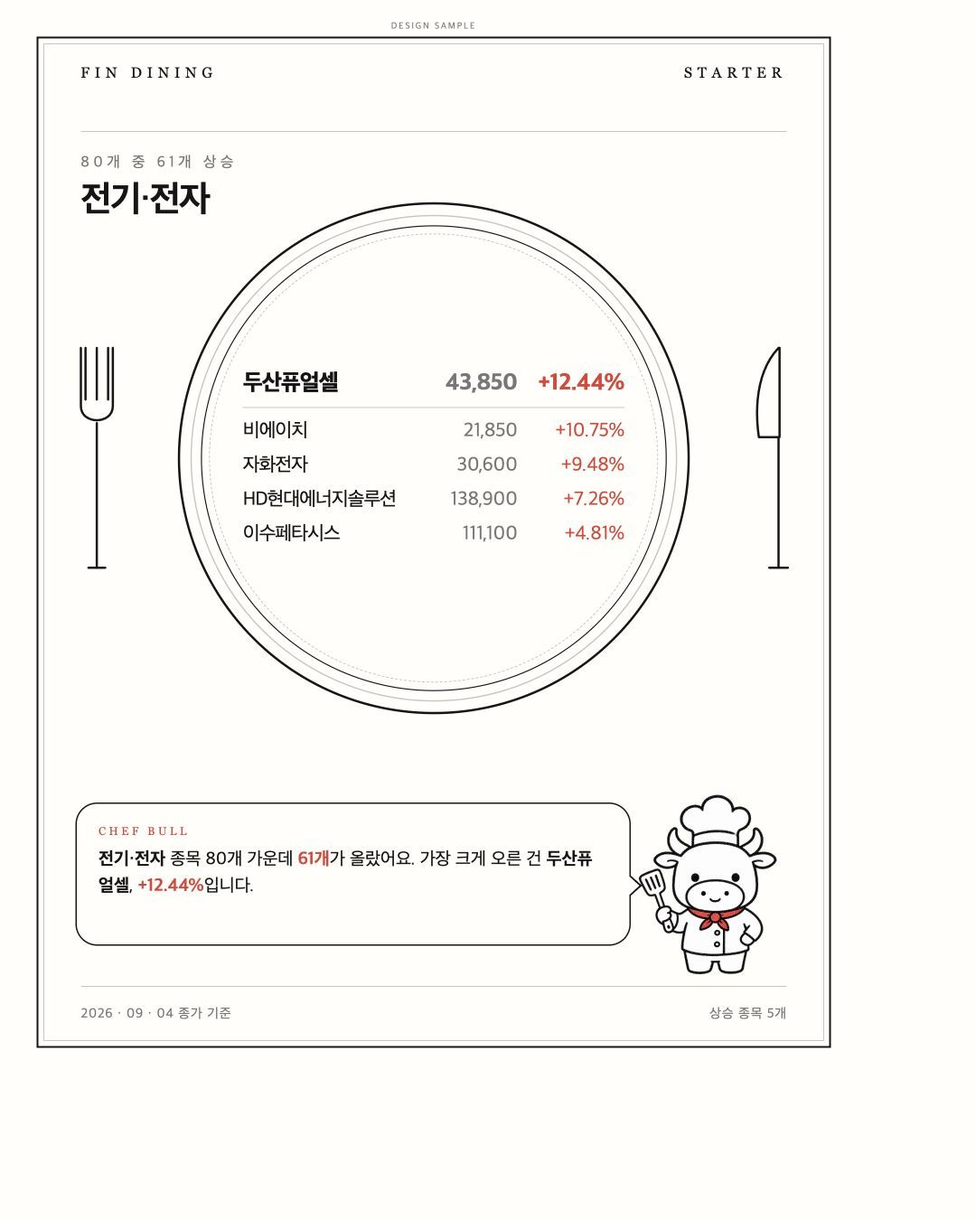
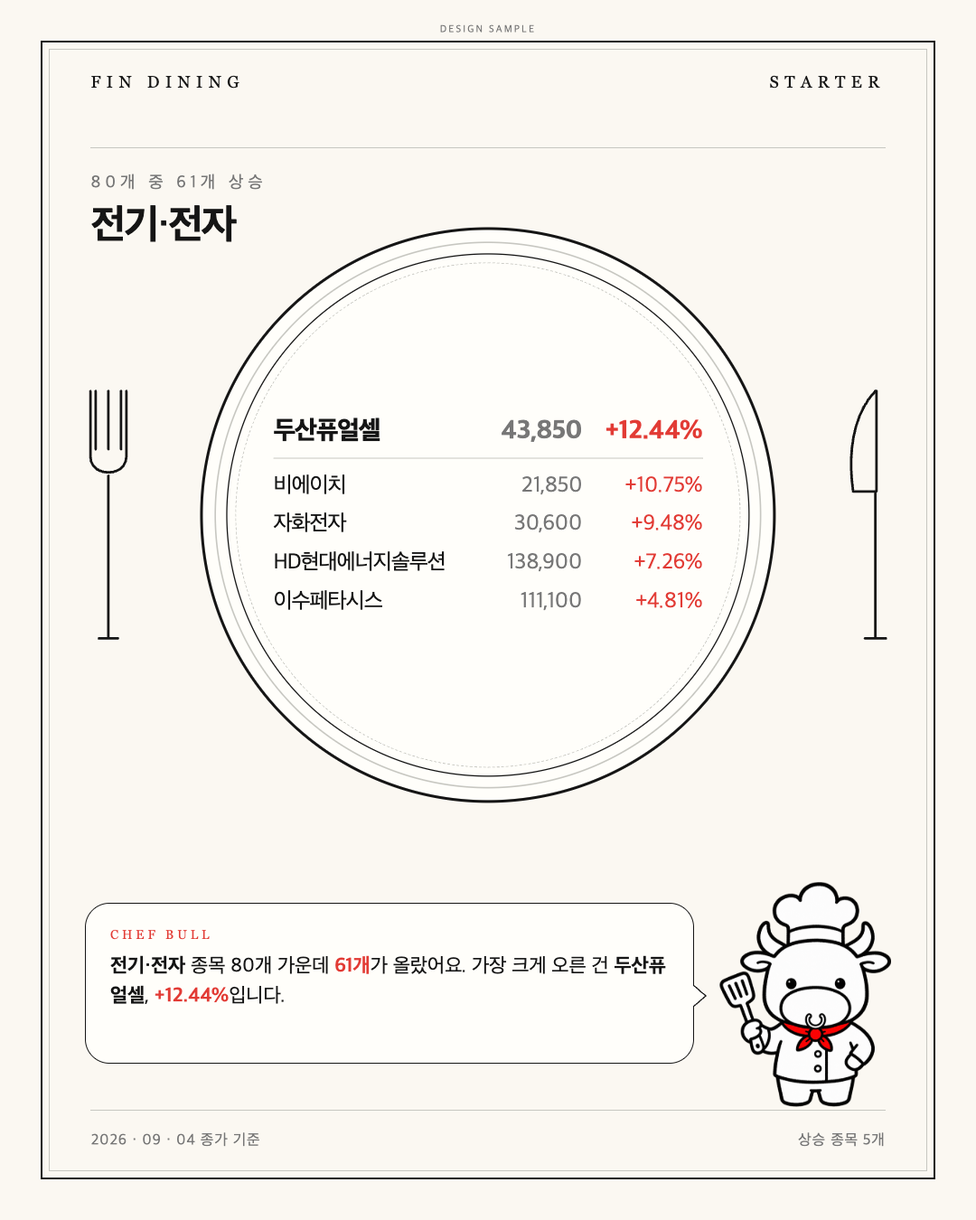
Update Bull and Bear design and September 7 posts

diff --git a/bull-bear-market-automation/template/share.html b/bull-bear-market-automation/template/share.html
@@ -8,6 +8,7 @@
     :root {
       color-scheme: light;
       --paper: #fffefa;
+      --card-bg: #fbf8f2; /* Approved warm ivory · 2026-09-07 */
       --page: #eeeeeb;
       --ink: #151515;
       --muted: #777777;
@@ -16,6 +17,11 @@
       --up: #e23b35;
       --down: #3569d4;
     }
+
+    :root[data-palette="ivory"] { --card-bg: #fbf8f2; }
+    :root[data-palette="blue"] { --card-bg: #f6f9fc; }
+    :root[data-palette="sage"] { --card-bg: #f7faf7; }
+    :root[data-palette="blush"] { --card-bg: #fcf7f6; }
 
     * { box-sizing: border-box; }
     html, body { margin: 0; min-height: 100%; }
@@ -73,7 +79,7 @@
       width: 100%;
       aspect-ratio: 4 / 5;
       overflow: hidden;
-      background: var(--paper);
+      background: var(--card-bg);
       color: var(--ink);
       box-shadow: 0 10px 28px rgb(0 0 0 / 10%);
     }
@@ -225,19 +231,48 @@
       height: 20.5cqw;
       z-index: 5;
     }
-    .chef {
-      position: absolute;
-      bottom: -1.6cqw;
-      width: 20.5cqw;
-      height: auto;
-      object-fit: contain;
+    /* Bounds exclude transparent padding; both chefs use the same visible height.
+       Speech-tail tip to visible silhouette: 2.6 - 1.45 = 1.15cqw. */
+    .chef-sprite {
+      --chef-height: 23cqw;
+      position: relative;
+      display: block;
+      flex: none;
+      height: var(--chef-height);
+      width: calc(var(--chef-height) * var(--aspect));
+      overflow: hidden;
       z-index: 3;
     }
-    .tone-up .chef { right: -1.2cqw; }
-    .tone-down .chef { left: -1.2cqw; }
-    .speech {
+    .chef-sprite.bull {
+      --aspect: 0.76565; /* visible bounds: 67,26–1021,1272 in 1200×1310 */
+      --image-width: 125.7862%; --image-left: -7.0231%; --image-top: -2.0867%;
+    }
+    .chef-sprite.bear {
+      --aspect: 0.68318; /* visible bounds: 111,6–980,1278 in 1218×1292 */
+      --image-width: 140.1611%; --image-left: -12.7733%; --image-top: -0.4717%;
+    }
+    .chef-sprite img,
+    .chef-sprite .chef-fill {
       position: absolute;
-      top: 1.2cqw;
+      width: var(--image-width);
+      max-width: none;
+      height: auto;
+      left: var(--image-left);
+      top: var(--image-top);
+    }
+    .chef-zone {
+      display: flex;
+      align-items: flex-end;
+      gap: 2.6cqw;
+    }
+    .chef-zone .chef-sprite { bottom: -1.6cqw; }
+    .tone-up .chef-zone { flex-direction: row-reverse; }
+    .speech {
+      position: relative;
+      flex: 1;
+      min-width: 0;
+      align-self: flex-start;
+      margin-top: 1.2cqw;
       min-height: 16.5cqw;
       padding: 2.2cqw 2.5cqw;
       border: .18cqw solid var(--ink);
@@ -246,8 +281,6 @@
       font-size: 2.05cqw;
       line-height: 1.52;
     }
-    .tone-up .speech { left: 0; width: 64cqw; }
-    .tone-down .speech { right: 0; width: 64cqw; }
     .speech::before,
     .speech::after {
       content: "";
@@ -349,18 +382,18 @@
       bottom: 13.7cqw;
       height: 21cqw;
     }
-    .cover-chefs img {
-      position: absolute;
-      bottom: -1.5cqw;
-      width: 19cqw;
+    .cover-chefs {
+      display: grid;
+      grid-template-columns: 18cqw minmax(0, 1fr) 18cqw;
+      align-items: start;
+      gap: 2cqw;
     }
-    .cover-chefs .bear { left: 0; }
-    .cover-chefs .bull { right: 0; }
+    .cover-chefs .chef-sprite { --chef-height: 22cqw; }
+    .cover-chefs .bear { justify-self: end; }
+    .cover-chefs .bull { justify-self: start; }
     .cover-note {
-      position: absolute;
-      left: 21cqw;
-      right: 21cqw;
-      top: 1.4cqw;
+      position: relative;
+      margin-top: 1.4cqw;
       min-height: 15.5cqw;
       padding: 2.4cqw;
       border: .18cqw solid var(--ink);
@@ -474,7 +507,7 @@
     const esc = (value) => String(value ?? "").replace(/[&<>"']/g, (ch) => ({ "&":"&amp;", "<":"&lt;", ">":"&gt;", '"':"&quot;", "'":"&#39;" }[ch]));
     const asset = (name) => "../characters/" + name;
     const chefAsset = (direction) => direction === "up"
-      ? asset("bull-chef-red-scarf-spatula.png")
+      ? asset("bull-chef-red-scarf-spatula.png?v=nose-ring-2")
       : asset("bear-chef-blue-scarf-whisk.png");
     const directionWord = (direction) => direction === "up" ? "상승" : "하락";
     const actionWord = (direction) => direction === "up" ? "올랐어요" : "내렸어요";
@@ -494,8 +527,31 @@
       return '<div class="card-foot"><span>' + esc(meta.date.replaceAll("-", " · ")) + ' 종가 기준</span><span>' + esc(right) + '</span></div>';
     }
 
+    // Opaque white underpaint follows the original bear drawing in source coordinates.
+    // Kept in the template so the original crayon artwork and transparent whisk gaps survive.
+    function bearWhiteFill() {
+      return '<svg class="chef-fill" viewBox="0 0 1218 1292" aria-hidden="true" focusable="false" xmlns="http://www.w3.org/2000/svg"><g fill="#fff">' +
+        '<path d="M446 374L438 265C365 251 342 209 361 157C381 97 457 66 516 132C515 67 557 18 612 18C680 14 730 59 723 132C774 72 850 95 868 153C889 208 855 249 791 266L783 373Z"/>' +
+        '<path d="M332 467C270 462 250 418 263 373C277 326 319 297 363 309C401 319 417 349 417 388Z"/>' +
+        '<path d="M813 385C820 335 851 306 891 308C949 311 977 363 966 411C959 443 936 463 892 468Z"/>' +
+        '<path d="M616 351C795 350 928 434 929 608C936 733 842 811 617 817C401 810 303 744 305 603C303 440 431 351 616 351Z"/>' +
+        '<path d="M411 789L339 845L337 909L367 965L393 902L371 1068C457 1143 745 1139 853 1067L856 994L950 920C907 865 864 821 811 791C717 826 503 830 411 789Z"/>' +
+        '<path d="M850 992L950 930C986 983 960 1027 913 1033C880 1038 860 1020 850 992Z"/>' +
+        '<path d="M397 1085C494 1134 724 1138 831 1085L811 1188C844 1226 818 1260 758 1266C701 1271 651 1260 643 1237L632 1176L593 1176L577 1240C563 1270 472 1277 426 1254C396 1240 395 1215 417 1187Z"/>' +
+        '<path d="M248 790L280 780L298 824L267 836Z"/>' +
+        '<path d="M283 823C326 816 346 842 344 876C342 905 330 914 307 920L319 948C270 957 244 931 242 890C239 856 252 832 283 823Z"/>' +
+        '<path d="M304 922L335 913L356 964C359 982 331 989 320 976Z"/>' +
+        '</g></svg>';
+    }
+
+    function chefSprite(direction) {
+      const kind = direction === "up" ? "bull" : "bear";
+      const label = direction === "up" ? "코뚜레를 한 황소 요리사" : "거품기를 든 곰 요리사";
+      return '<span class="chef-sprite ' + kind + '">' + (direction === "down" ? bearWhiteFill() : "") + '<img src="' + chefAsset(direction) + '" alt="' + label + '"></span>';
+    }
+
     function chefZone(direction, message) {
-      return '<div class="chef-zone"><img class="chef" src="' + chefAsset(direction) + '" alt="' + (direction === "up" ? "뒤집개를 든 황소 요리사" : "거품기를 든 곰 요리사") + '">' +
+      return '<div class="chef-zone">' + chefSprite(direction) +
         '<div class="speech"><div class="chef-label">' + chefName(direction) + '</div>' + message + '</div></div>';
     }
 
@@ -505,8 +561,8 @@
       return '<article class="post-card cover"><div class="sample-badge">' + esc(data.meta.status) + '</div><div class="card-inner">' +
         '<div class="cover-brand">FINSIGHT</div><h2>FIN DINING</h2><div class="cover-eyebrow">' + esc(data.cover.eyebrow) + '</div>' +
         '<div class="course-board">' + rows + '</div><div class="cover-chefs">' +
-        '<img class="bear" src="' + chefAsset("down") + '" alt="거품기를 든 곰 요리사"><div class="cover-note">' + esc(data.cover.note) + '</div>' +
-        '<img class="bull" src="' + chefAsset("up") + '" alt="뒤집개를 든 황소 요리사"></div>' +
+        chefSprite("down") + '<div class="cover-note">' + esc(data.cover.note) + '</div>' +
+        chefSprite("up") + '</div>' +
         foot(data.meta, data.meta.market) + '</div></article>';
     }
 
@@ -550,6 +606,8 @@
       document.getElementById("page-foot").textContent = data.disclaimer;
 
       const params = new URLSearchParams(location.search);
+      const palette = params.get("palette");
+      document.documentElement.dataset.palette = ["ivory", "blue", "sage", "blush"].includes(palette) ? palette : "ivory";
       const selected = Number(params.get("card"));
       if (selected >= 1 && selected <= cards.length) {
         document.body.classList.add("single");

diff --git a/bull-bear-market-automation/design-review/2026-09-07/palette-comparison.html b/bull-bear-market-automation/design-review/2026-09-07/palette-comparison.html
@@ -1,0 +1,3 @@
+<!doctype html><html lang="ko"><meta charset="utf-8"><title>FIN DINING · 배경색 4안</title><style>
+*{box-sizing:border-box}body{margin:0;padding:36px;background:#e9e9e7;color:#171717;font-family:"Apple SD Gothic Neo",sans-serif}h1{font-size:28px;margin:0 0 8px}p{font-size:15px;color:#626262;margin:0 0 28px}.grid{display:grid;grid-template-columns:repeat(4,minmax(0,1fr));gap:24px}h2{font-size:20px;margin:0 0 8px}.meta{height:48px;font-size:13px;color:#626262;line-height:1.6}.swatch{display:inline-block;width:14px;height:14px;border:1px solid #bbb;vertical-align:middle;margin-right:6px}img{display:block;width:100%;margin-bottom:14px;box-shadow:0 4px 15px #0001}a{color:inherit} .label{font-size:12px;margin:8px 0;color:#626262}.note{margin-top:22px;font-size:13px}</style>
+<h1>FIN DINING · 더 연한 배경색 4가지</h1><p>기존 색에 흰색을 약 50% 더한 밝기 · 위: 황소 / 아래: 흰색으로 채운 곰 · 디자인 검토용 샘플</p><div class="grid"><section><h2>01 · 웜 아이보리</h2><div class="meta"><span class="swatch" style="background:#FBF8F2"></span>#FBF8F2<br>따뜻하고 차분한 상차림</div><div class="label">황소 · 상승 카드</div><a href="ivory-2.png"><img src="ivory-2.png"></a><div class="label">곰 · 하락 카드</div><a href="ivory-4.png"><img src="ivory-4.png"></a><a href="ivory-1.png">커버 시안 보기 ↗</a></section><section><h2>02 · 파우더 블루</h2><div class="meta"><span class="swatch" style="background:#F6F9FC"></span>#F6F9FC<br>맑고 깔끔한 인상</div><div class="label">황소 · 상승 카드</div><a href="blue-2.png"><img src="blue-2.png"></a><div class="label">곰 · 하락 카드</div><a href="blue-4.png"><img src="blue-4.png"></a><a href="blue-1.png">커버 시안 보기 ↗</a></section><section><h2>03 · 연한 세이지</h2><div class="meta"><span class="swatch" style="background:#F7FAF7"></span>#F7FAF7<br>편안하고 부드러운 인상</div><div class="label">황소 · 상승 카드</div><a href="sage-2.png"><img src="sage-2.png"></a><div class="label">곰 · 하락 카드</div><a href="sage-4.png"><img src="sage-4.png"></a><a href="sage-1.png">커버 시안 보기 ↗</a></section><section><h2>04 · 소프트 블러시</h2><div class="meta"><span class="swatch" style="background:#FCF7F6"></span>#FCF7F6<br>온기 있는 부드러운 인상</div><div class="label">황소 · 상승 카드</div><a href="blush-2.png"><img src="blush-2.png"></a><div class="label">곰 · 하락 카드</div><a href="blush-4.png"><img src="blush-4.png"></a><a href="blush-1.png">커버 시안 보기 ↗</a></section></div><div class="note">접시와 말풍선은 동일한 밝은 종이색을 유지했습니다. 배경색은 등락 의미가 없는 장식색이며, 상승·하락 표시는 기존 빨강·파랑입니다.</div></html>

diff --git a/bull-bear-market-automation/design-review/2026-09-07/previous-colors/palette-comparison.html b/bull-bear-market-automation/design-review/2026-09-07/previous-colors/palette-comparison.html
@@ -1,0 +1,3 @@
+<!doctype html><html lang="ko"><meta charset="utf-8"><title>FIN DINING · 배경색 4안</title><style>
+*{box-sizing:border-box}body{margin:0;padding:36px;background:#e9e9e7;color:#171717;font-family:"Apple SD Gothic Neo",sans-serif}h1{font-size:28px;margin:0 0 8px}p{font-size:15px;color:#626262;margin:0 0 28px}.grid{display:grid;grid-template-columns:repeat(4,minmax(0,1fr));gap:24px}h2{font-size:20px;margin:0 0 8px}.meta{height:48px;font-size:13px;color:#626262;line-height:1.6}.swatch{display:inline-block;width:14px;height:14px;border:1px solid #bbb;vertical-align:middle;margin-right:6px}img{display:block;width:100%;margin-bottom:14px;box-shadow:0 4px 15px #0001}a{color:inherit} .label{font-size:12px;margin:8px 0;color:#626262}.note{margin-top:22px;font-size:13px}</style>
+<h1>FIN DINING · 연한 배경색 4가지</h1><p>수정한 황소와 동일한 말풍선 간격 적용 · 위: 황소 / 아래: 곰 · 디자인 검토용 샘플 데이터</p><div class="grid"><section><h2>01 · 웜 아이보리</h2><div class="meta"><span class="swatch" style="background:#F7F1E5"></span>#F7F1E5<br>따뜻하고 차분한 상차림</div><div class="label">황소 · 상승 카드</div><a href="ivory-2.png"><img src="ivory-2.png"></a><div class="label">곰 · 하락 카드</div><a href="ivory-4.png"><img src="ivory-4.png"></a><a href="ivory-1.png">커버 시안 보기 ↗</a></section><section><h2>02 · 파우더 블루</h2><div class="meta"><span class="swatch" style="background:#EDF3F8"></span>#EDF3F8<br>맑고 깔끔한 인상</div><div class="label">황소 · 상승 카드</div><a href="blue-2.png"><img src="blue-2.png"></a><div class="label">곰 · 하락 카드</div><a href="blue-4.png"><img src="blue-4.png"></a><a href="blue-1.png">커버 시안 보기 ↗</a></section><section><h2>03 · 연한 세이지</h2><div class="meta"><span class="swatch" style="background:#EFF4EE"></span>#EFF4EE<br>편안하고 부드러운 인상</div><div class="label">황소 · 상승 카드</div><a href="sage-2.png"><img src="sage-2.png"></a><div class="label">곰 · 하락 카드</div><a href="sage-4.png"><img src="sage-4.png"></a><a href="sage-1.png">커버 시안 보기 ↗</a></section><section><h2>04 · 소프트 블러시</h2><div class="meta"><span class="swatch" style="background:#F8EFED"></span>#F8EFED<br>온기 있는 부드러운 인상</div><div class="label">황소 · 상승 카드</div><a href="blush-2.png"><img src="blush-2.png"></a><div class="label">곰 · 하락 카드</div><a href="blush-4.png"><img src="blush-4.png"></a><a href="blush-1.png">커버 시안 보기 ↗</a></section></div><div class="note">접시와 말풍선은 동일한 밝은 종이색을 유지했습니다. 배경색은 등락 의미가 없는 장식색이며, 상승·하락 표시는 기존 빨강·파랑입니다.</div></html>

diff --git a/bull-bear-market-automation/automation-prompt.md b/bull-bear-market-automation/automation-prompt.md
@@ -12,7 +12,7 @@
 
 ## 1. 산출물
 
-당일 기준 7장 인스타그램 카드와 공유용 갤러리를 만든다. 전체 정보 구조는 루트의 `templates/share.html`과 동일하게 유지한다.
+당일 기준 7장 인스타그램 카드와 게시글·릴스·스토리 원고를 만든다. 갤러리는 제작·검수 과정에서만 사용한다. 전체 정보 구조는 루트의 `templates/share.html`과 동일하게 유지한다.
 
 1. 커버 — 다섯 코스의 업종명·등락률과 Bull & Bear 캐릭터
 2. AMUSE BOUCHE — 업종과 대표 종목
@@ -24,7 +24,7 @@
 
 2~6번 카드는 상단 코스명, 업종 내 상승·하락 종목 수, 업종명, 중앙 접시, 접시 안 종목명·현재가·등락률, 캐릭터 말풍선, 기준일의 순서를 고정한다.
 
-모든 작업물은 이 폴더 아래 `output/YYYY-MM-DD/`에 저장한다. 최종 결과에는 카드 PNG 7장, `share.html`, `content.json`, `sources.md`, `caption.md`를 포함한다.
+모든 작업물은 이 폴더 아래 `output/YYYY-MM-DD/`에서 제작한다. 최종 검수를 통과하면 게시물 PNG 7장과 `caption.md`, `reels-script.md`, `story-copy.md`만 남긴다. `share.html`, `content.json`, `sources.md`, 조사 자료, 검수 기록, 전체 미리보기, 이전 버전 등 중간 산출물은 삭제한다. ZIP 등 압축파일은 만들지 않는다. 이 정리는 당일 결과 폴더에만 적용하며 공용 템플릿·캐릭터·자동화 소스는 보존한다.
 
 ## 2. 데이터와 팩트체크
 
@@ -34,7 +34,7 @@
 4. 종목 선정 이유는 공식 공시·IR·정부 발표·거래소 자료와 신뢰도 높은 보도자료로 교차 확인한다.
 5. 확인되지 않은 원인을 단정하지 않는다. 추론이면 `가능성`, `시장 해석`처럼 표시한다.
 6. 휴장일에는 임의 데이터를 만들지 말고 가장 최근 거래일을 기준일로 명시한다.
-7. 모든 URL, 문서명, 게시 시각, 데이터 기준 시각을 `sources.md`에 기록한다.
+7. 모든 URL, 문서명, 게시 시각, 데이터 기준 시각을 작업용 `sources.md`에 기록한다. 검수가 끝나면 필요한 출처 링크와 기준 시각을 원고에 포함하고 작업용 출처 파일은 삭제한다.
 
 ## 3. 콘텐츠 원칙
 
@@ -46,7 +46,8 @@
 
 ## 4. 색상과 캐릭터 규칙
 
-- 기본은 흰색 배경, 검은색 텍스트·테두리, 회색 보조선이다.
+- 확정 배경은 웜 아이보리 `#FBF8F2`다. 접시·말풍선은 밝은 종이색 `#FFFEFA`, 텍스트·테두리는 검은색, 보조선은 회색이다.
+- 곰의 얼굴·모자·의상·손발은 불투명 흰색으로 채운다. 황소는 콧구멍 없는 U자형 코뚜레 버전을 사용하며, 곰·황소와 말풍선 간격은 템플릿의 공통 기준을 유지한다.
 - 상승을 의미하는 숫자·막대·작은 상태점에만 빨강 `#E23B35`를 사용한다.
 - 하락을 의미하는 숫자·막대·작은 상태점에만 파랑 `#3569D4`를 사용한다.
 - 중립 정보는 검정 또는 회색이며 임의의 제3 포인트 색상을 추가하지 않는다.

diff --git a/bull-bear-market-automation/output/2026-09-07/caption.md b/bull-bear-market-automation/output/2026-09-07/caption.md
@@ -1,0 +1,37 @@
+반도체·전력은 달리고, 식품·화장품은 쉬어간 하루.
+9월 7일 FIN DINING, 오늘의 Bull & Bear 코스입니다.
+
+코스피는 6,995.39(+4.61%)로 마감했습니다. 오늘은 강세 업종 세 곳과 약세 업종 두 곳을 함께 담았습니다.
+
+🐂 상승 코스
+
+AMUSE BOUCHE · 기계 +5.75%
+삼미금속 +22.16% / 두산에너빌리티 +10.98% / TPC로보틱스 +10.34%
+두산에너빌리티 거래량은 전일 4.21배. AI 전력·발전 인프라 기대가 확산됐다는 증권사 해석이 나왔습니다. 개별 종목 모두의 상승 원인을 같은 재료로 단정하지 않았습니다.
+
+STARTER · 전기장비 +6.61%
+가온전선 +10.61% / 효성중공업 +8.53% / LS ELECTRIC +5.99%
+LS ELECTRIC의 KT클라우드 AI 데이터센터 협력 MOU는 9월 3일 공식 발표된 사실입니다. 오늘 전력기기 강세는 관련 투자 확대 기대와 연결한 시장 해석입니다.
+
+MAIN · 반도체·장비 +6.63%
+SK하이닉스 +8.26% / SK스퀘어 +8.07% / 삼성전자 +5.68%
+세 종목의 거래량은 각각 전일 1.23배·1.15배·1.30배. 신한투자증권은 AI 설비투자 기대 회복을 반도체 강세 배경으로 해석했습니다.
+
+🐻 하락 코스
+
+SIGNATURE · 화장품 −1.64%
+에이피알 −2.54% / 달바글로벌 −2.05% / 한국콜마 −1.03%
+에이피알은 20일 평균 아래, 한국콜마는 평균 위에서 조정받았습니다. 달바글로벌은 직전 20거래일 최저 종가를 밑돌았습니다. 에이피알의 해외 매출 비중은 2분기 IR 기준 92%로, 원화 강세에 따른 환산 부담은 점검할 가능성이지 오늘 하락의 확정 원인은 아닙니다.
+
+DESSERT · 식품 −2.12%
+삼양식품 −6.14% / 농심 −3.49% / 오리온 −2.61%
+삼양식품은 거래량이 전일 2.95배로 늘며 20일 평균 아래로 내려갔습니다. 환율 하락에 따른 수출 매출 환산 부담이 보도됐습니다. 농심은 20일 평균 아래, 오리온은 직전 20거래일 최저 종가 아래입니다. 같은 식품주라도 환율 영향은 원가·해외 생산 비중에 따라 다릅니다.
+
+다음 거래일 체크
+미국 현지 9월 7일은 노동절 휴장입니다. 9월 8일 국내장에서는 반도체·전력 강세의 확산 여부, 원·달러 환율과 하락 업종의 저점 회복을 확인하겠습니다.
+
+기준: 2026.09.07 KRX 정규장 종가. 업종 등락·종목 수는 Npay 국내 업종 분류입니다. 각 업종의 같은 방향 보통주 중 거래대금 상위 3개를 선정하고, 카드에서는 등락률 절대값 순으로 정렬했습니다. 20일 평균·저점은 단기 점검 지표입니다.
+
+정보 제공 목적이며 특정 종목의 매수·매도를 권유하지 않습니다.
+
+#FINDINING #Finsight #오늘의증시 #반도체 #전력기기 #식품 #화장품

diff --git a/bull-bear-market-automation/README.md b/bull-bear-market-automation/README.md
@@ -13,7 +13,11 @@
 
 ## 디자인 원칙
 
-- 흰 배경, 검은 글자와 테두리, 회색 보조선이 기본이다.
+- 확정된 웜 아이보리 배경 `#FBF8F2`, 밝은 종이색 접시·말풍선, 검은 글자와 테두리, 회색 보조선이 기본이다.
+- 기본 출력은 웜 아이보리다. `?palette=ivory|blue|sage|blush`는 보관된 비교 시안을 확인할 때만 사용한다. 배경색은 등락 의미를 갖지 않는다.
+- 곰은 템플릿의 흰색 채움 레이어로 얼굴·모자·귀·의상·손발을 불투명하게 표시한다. 캐릭터 바깥과 거품기 철사 사이는 배경이 비친다.
+- 황소는 콧구멍 없는 U자형 코뚜레 버전을 사용한다. 캐릭터의 투명 여백을 제외한 외곽 기준으로 말풍선 간격을 맞춘다.
+- 코스·메뉴: 말풍선 몸체와 캐릭터 외곽 2.6cqw(꼬리 끝 기준 1.15cqw). 커버: 곰과 황소 모두 말풍선 몸체에서 2cqw.
 - 상승의 숫자·막대·상태점만 빨강 `#E23B35`다.
 - 하락의 숫자·막대·상태점만 파랑 `#3569D4`다.
 - 황소의 빨간 스카프와 곰의 파란 스카프가 각 방향의 캐릭터 앵커다.
@@ -38,3 +42,15 @@ python3 -m http.server 8765
 ## 자동 생성 요청 예시
 
 이 폴더를 작업 위치로 두고 `오늘 Bull & Bear 만들어줘`라고 요청한다. 자세한 규칙은 `automation-prompt.md`를 따른다.
+
+## 배경색 비교 시안
+
+`design-review/2026-09-07/palette-comparison.html`에서 황소·곰 카드 4안을 비교하고 각 커버 시안을 열 수 있다.
+
+배경색은 흰색을 약 50% 혼합한 더 연한 2차 시안으로 갱신했다: 아이보리 `#FBF8F2`, 블루 `#F6F9FC`, 세이지 `#F7FAF7`, 블러시 `#FCF7F6`. 기존 시안은 `design-review/2026-09-07/previous-colors/`에 보관한다.
+
+2026-09-07 사용자 확정: 더 연한 2차 시안의 **웜 아이보리 `#FBF8F2`**로 진행한다. 템플릿 기본값과 `example/`의 7장 미리보기에 반영되어 있다.
+
+## 최종 결과 정리
+
+검수 완료 후 당일 `output/YYYY-MM-DD/`에는 카드 PNG 7장과 `caption.md`, `reels-script.md`, `story-copy.md`만 남긴다. ZIP은 만들지 않으며 미리보기·HTML·데이터·조사 자료·검수 기록·이전 버전은 삭제한다. 필요한 출처는 원고에 포함한다. 공용 템플릿과 캐릭터는 보존한다.

diff --git a/AGENTS.md b/AGENTS.md
@@ -6,8 +6,10 @@
 
 1. `fin-dining-instagram-automation-prompt-final.md`를 처음부터 끝까지 읽는다.
 2. `templates/templates-manifest.json`과 당일 `layout.json`을 읽어 브랜드 토큰을 불러온다.
-3. 해당 최종 프롬프트에 따라 최신 정보 조사, 팩트체크, 정보량에 맞는 실제 카드 PNG 5~7장, 게시글, 릴스, 스토리, 출처, ZIP을 생성한다.
+3. 해당 최종 프롬프트에 따라 최신 정보 조사, 팩트체크, 정보량에 맞는 실제 카드 PNG 5~7장, 게시글, 릴스, 스토리 원고를 생성하고 출처를 확인한다.
 4. 전체 카드를 생성형 AI로 다시 그리지 않는다. `templates/render_adaptive_course.py`를 사용해 승인된 컴포지션 패밀리 안에서 레이아웃을 선택하고 텍스트·데이터·도형을 코드로 합성한다. `templates/render_daily_course.py`는 v3 재현용으로만 사용한다. 주도 섹터 코스(FinSight 업종 랭킹 기반)는 `templates/render_sector_course.py`를 쓴다 — 밝은 파인다이닝 상차림이라 v4.1과 시각 체계를 공유하지 않는다.
 5. PASS 1 사실·원고, PASS 2 템플릿·기술, PASS 3 시각·폰트 검수를 모두 통과할 때까지 완료로 보고하지 않는다.
+
+최종 검수를 통과한 뒤 당일 결과 폴더에는 게시물 사진과 원고만 남긴다. 필요한 출처는 원고에 포함하며, 조사 자료·HTML·JSON·검수 기록·미리보기·이전 버전 등 중간 산출물은 삭제한다. ZIP 등 압축파일은 만들지 않는다. 이 최종 정리 규칙은 개별 제작 프롬프트의 산출물 목록보다 우선한다. 공용 템플릿·캐릭터·자동화 소스는 보존한다.
 
 주 6코스는 월요일부터 토요일까지이며 일요일은 사용자의 별도 지시가 없으면 게시물을 만들지 않는다.

diff --git a/bull-bear-market-automation/AGENTS.md b/bull-bear-market-automation/AGENTS.md
@@ -9,5 +9,6 @@
 3. 최신 시장 데이터를 조사하고 출처를 교차 확인한다.
 4. 상승은 빨강, 하락은 파랑 외의 포인트 색을 추가하지 않는다.
 5. 카드 전체를 생성형 AI로 다시 그리지 않고 HTML/CSS로 합성한다.
-6. 5장의 1080×1350 PNG, 공유용 HTML, 원고, 출처를 `output/YYYY-MM-DD/`에 생성한다.
+6. 7장의 1080×1350 PNG와 게시글·릴스·스토리 원고를 `output/YYYY-MM-DD/`에 생성한다.
 7. 사실·템플릿·시각 검수를 모두 통과해야 완료로 보고한다.
+8. 검수 완료 후 당일 결과 폴더에는 게시물 사진과 원고만 남긴다. HTML·JSON·출처 별도 파일·조사 자료·미리보기·검수 기록·이전 버전 등은 삭제하며 ZIP은 생성하지 않는다. 필요한 출처는 원고에 포함한다. 공용 템플릿과 캐릭터는 보존한다.

diff --git a/bull-bear-market-automation/output/2026-09-07/reels-script.md b/bull-bear-market-automation/output/2026-09-07/reels-script.md
@@ -1,0 +1,9 @@
+# 릴스 대본 · 25초 (영상 파일 아님)
+
+- 0–4초: “9월 7일, 반도체·전력은 달리고 식품·화장품은 쉬어갔습니다.” / 화면: 커버
+- 4–10초: “반도체·장비 6.63%, 전기장비 6.61% 상승. 기계도 5.75% 올랐습니다.” / 화면: MAIN → STARTER → AMUSE
+- 10–17초: “반면 화장품은 1.64%, 식품은 2.12% 하락했습니다.” / 화면: SIGNATURE → DESSERT
+- 17–22초: “미국은 노동절 휴장. 다음 국내장에서는 강세의 확산과 환율을 확인하세요.”
+- 22–25초: “오늘의 코스를 저장하고 다음 종가와 비교해 보세요.”
+
+전 구간 2026.09.07 KRX 종가 기준 표기. 마지막 화면에 투자 권유가 아닌 정보 제공임을 표기.

diff --git a/bull-bear-market-automation/output/2026-09-07/story-copy.md b/bull-bear-market-automation/output/2026-09-07/story-copy.md
@@ -1,0 +1,10 @@
+# 스토리 문안 (이미지·영상 파일 아님)
+
+2026.09.07 오늘의 산업 코스
+반도체·전력 강세 / 식품·화장품 약세
+
+투표: 내일 더 확인하고 싶은 흐름은?
+- 강세 확산
+- 약세 반등
+
+하단: KRX 정규장 종가 기준 · 투자 권유 아님
